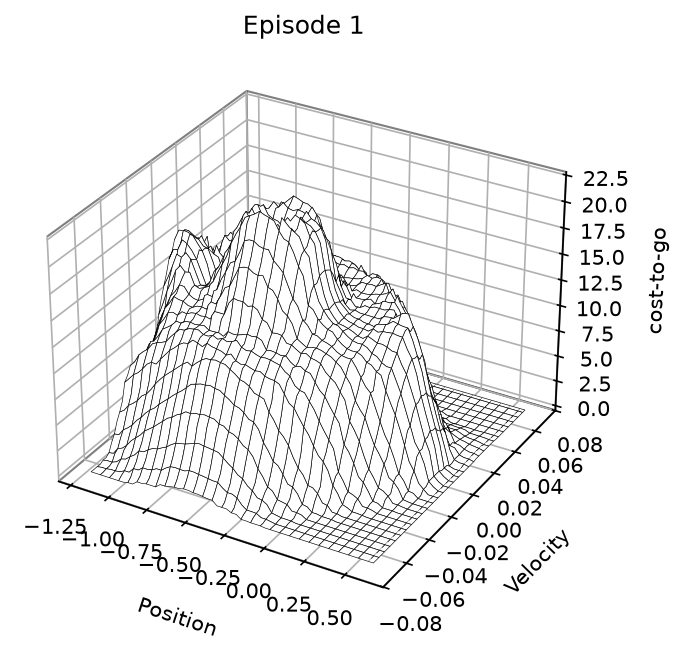
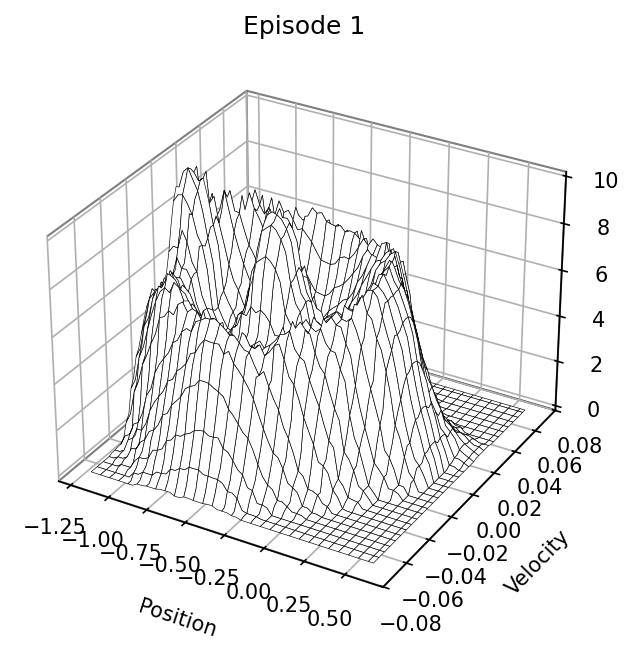
perf: :zap: Inicio do experimento e novas figuras

diff --git a/README.md b/README.md
@@ -86,7 +86,9 @@ $A_t^* = \operatorname*{arg\,max}_a \hat{q}(S_t, a, \mathbf{w}_t)$
 
 Que pode ser computada de diferentes formas, comumente $\epsilon$-greedy, e as açoẽs serão selecionadas dessa maneira.
 
-Note também, que os estados são representados por vetores de acordo com o tile-coding escolhido. Por exemplo, um estado bidimensional, que seria representado por um vetor de duas posições, com um tile-coding de 8, será representado por 16 posições. Essa abordagem está acontecendo a todo momento durante a execução do algoritmo.
+Note também, que os estados são representados por vetores de features $\mathbf{x}(s,a)$. Essa abordagem implica em uma alteração na aproximação $\hat{q}$, que agora deve considerar $\mathbf{x}$:
+
+$\hat{q}(s, a, \mathbf{w}) \doteq \mathbf{w}^\top \mathbf{x}(s, a) = \sum_{i=1}^d w_i \cdot x_i(s, a)$
 
 ## Pseudocódigo
 
@@ -127,9 +129,36 @@ O projeto está dividido em quatro arquivos: [main.py](scripts/main.py), [semi_g
 
 
 
-## Experimento: <a pergunta></a>
+## Experimento: 
 
-<figura, o que ela mostra, por que era esse o resultado esperado>
+A ideia é reproduzir o cenário "Mountain Car", que trata do desafio de subir uma ladeira muito íngrime com um carro muito fraco. Se tentar só acelerar, o carro morre na metade, é preciso voltar e pegar "embalo". Repete-se esse processo até que é possível chegar ao cume da montanha. Esse cenário pode ser visto no canto superior esquerdo da figura 10.1 de Sutton e Barto:
+
+![Barto10.1](media/Barto10.1.png)
+
+Nesse cenário há 3 possíveis ações, acelerar para frente, com recompensa +1, acelerar para trás, com recompensa -1, e não acelerar, com recompensa 0.
+
+A física do problema é regida por uma equação de posição e outra de velocidade, porém isso é embutido no ambiente do gymnasium, não entrarei em detalhes nesse texto.
+
+As outras subfiguras mostram a evolução do treinamento, com o passar dos episódios. A faixa verde no canto direito é o objetivo, a posição 0.6 significa que subimos a ladeira, independente de velocidade. A altura da superfície aponta o quão difícil é chegar no objetivo a partir daquele estado.
+
+Note que a altura das figuras aumenta com o passar do tempo, isso significa que o sistema entendeu melhor o ambiente e sabe a real dificuldade de sair de um vale com baixa velocidade, por exemplo.
+
+Também é notável que o "relevo" vai ficando mais bem definido com o passar do tempo, mostrando que o sistema realmente "aprendeu". Se tentar só subir a ladeira aumentando a velocidade, o custo aumenta. Se ganhar velocidade negativa, o custo diminui, adquire-se o "embalo" e fica mais fácil chegar no objetivo.
+
+Outra questão interessante é saber o quanto o tamanho do passo influi na convergência do algoritmo, como mostra a figura 10.2 de Sutton e Barto:
+
+![Barto10.2](media/Barto10.2.png)
+
+Nosso objetivo é reproduzir as duas figuras apresentadas.
+
+A primeira é mais difícil de entender, porém é mais fácil de obter. Para tal, basta executar a função train com a flag generate_figs ligada. Quando chega-se a um final de episódio e é um dos episódios a ter a figura gerada, os dados do episódio geram uma meshgrid, que formarão as figuras a seguir:
+| ![cost_to_go_ep1](media/cost_to_go_ep1.png)  | ![cost_to_go_ep12](media/cost_to_go_ep12.png)  | ![cost_to_go_ep104](media/cost_to_go_ep104.png)  |
+|---|---|---|
+| ![cost_to_go_ep500](media/cost_to_go_ep500.png)  | ![cost_to_go_ep1000](media/cost_to_go_ep1000.png)  | ![cost_to_go_ep9000](media/cost_to_go_ep9000.png)  |
+
+Que seguem comportamento muito similar ao apresentado por Sutton e Barto, inicia de maneira exploratória, com movimento circular no espaço, em torno do estado original. Em seguida o ambiente é melhor conhecido, percebe-se que ficar no fundo do vale com a velocidade nula é um péssimo negócio, representado pelo pico. Também nota-se que a redução da velocidade, diminui o custo, então pegar embalo torna-se vantajoso. E, por fim, quando se está perto do objetivo, basta um pequeno esforço para o custo diminuir abruptamente. Todo esse comportamento, comprova que o agente de fato aprendeu.
+
+Já a segunda figura é simples de compreender e custosa de obter.
 
 ## Limites
 
